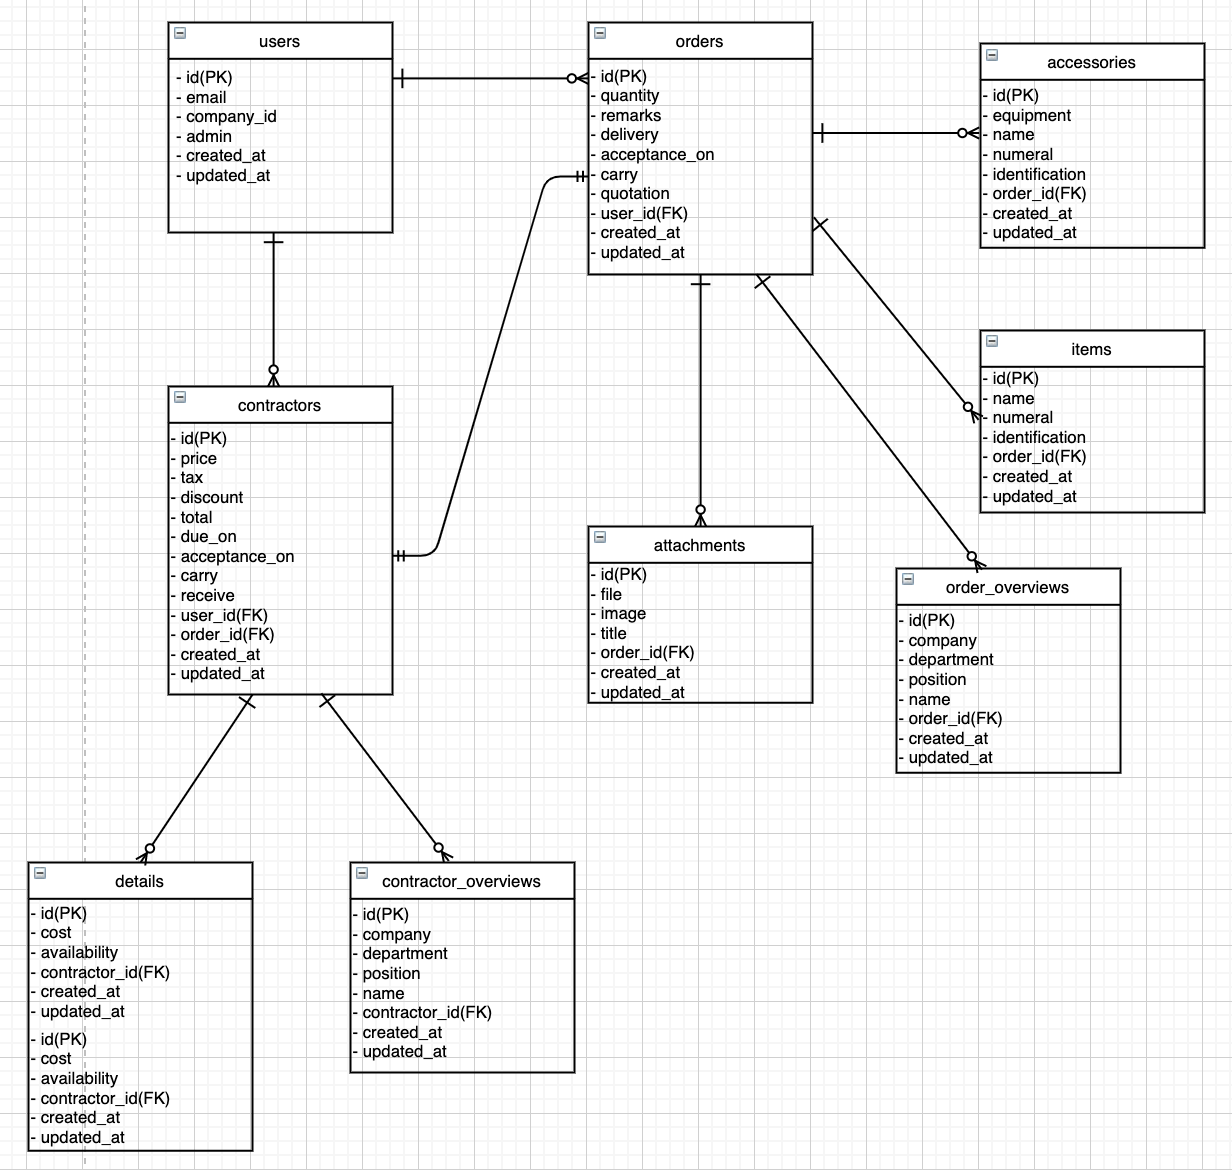
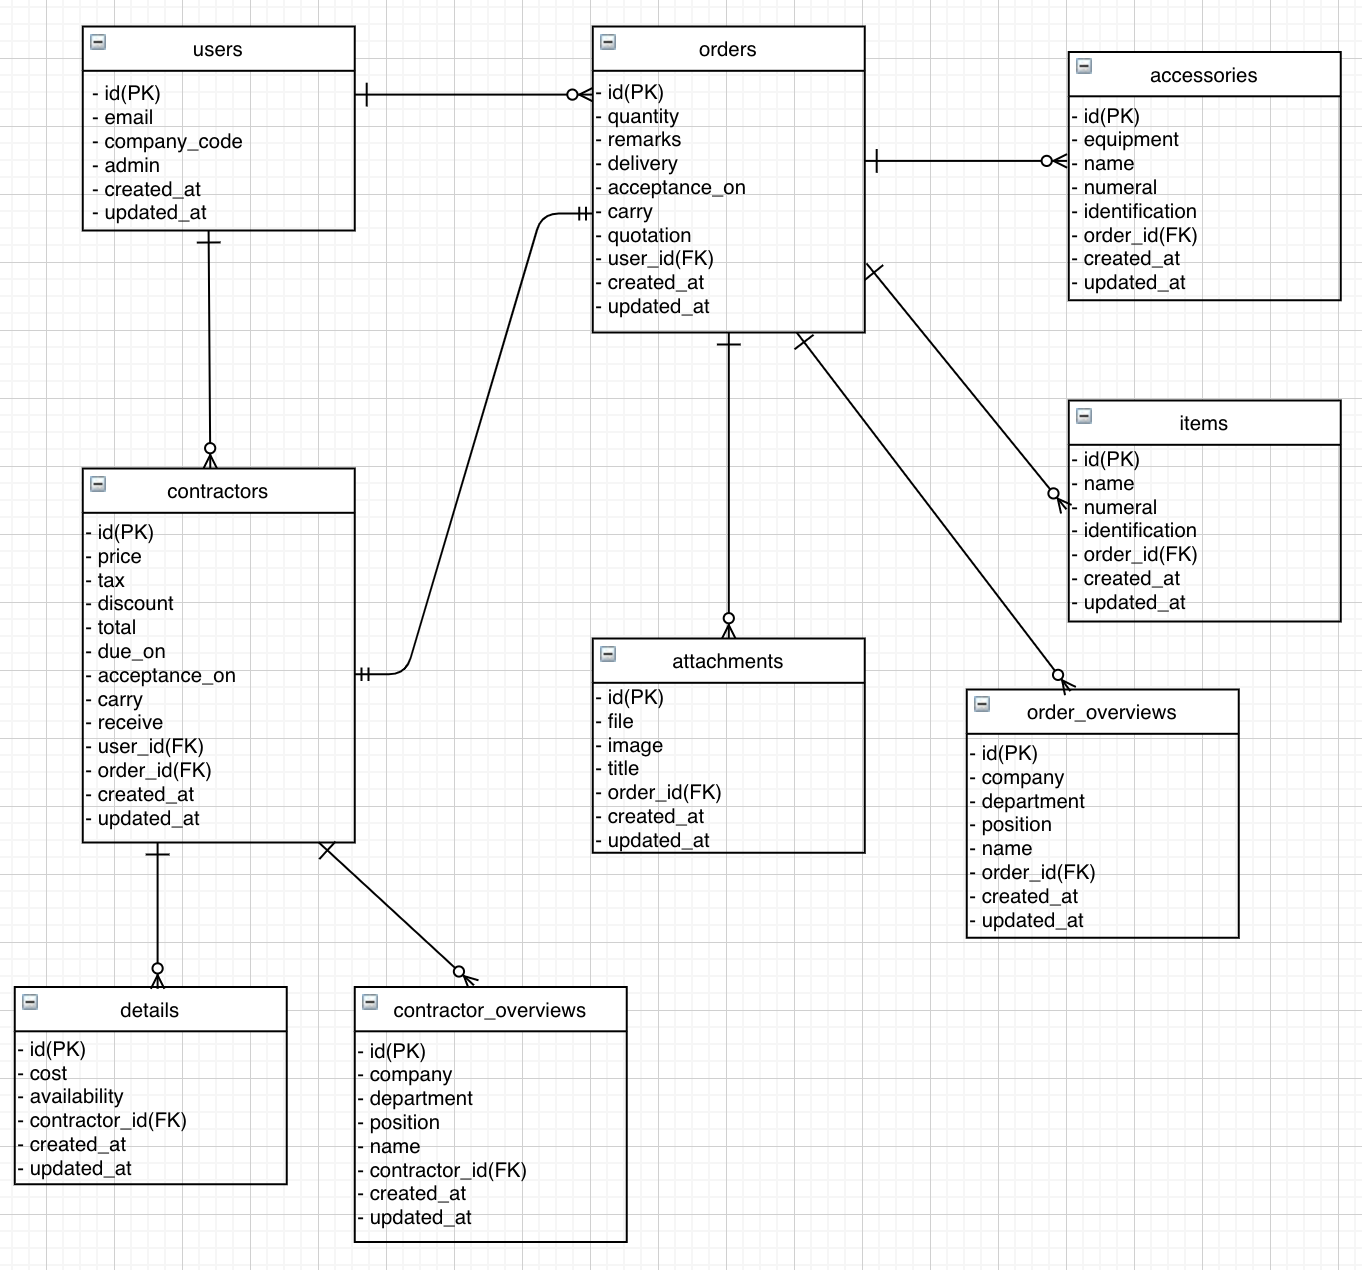
fixed ER diagram and content for README

diff --git a/README.md b/README.md
@@ -6,11 +6,12 @@ ___
 さらに発注会社側で、現場から提出された発注内容の編集及び承認、削除等ができ業務を効率化する。
 ___
 ## 開発背景
-以前、発注業務を担当した際に、現場が作成したExcelを提出してもらい、そこから見積りを
-取り、発注するといった流れであった。  
-受注する側と発注する側でのメールのやり取りが、何度もある事で時間のロス及びメールの見落としにも繋がっていると考えた。  
-また、相見積りを取った時に、提示された見積り内容を印刷し、手書きで修正していたので、  
-発注側の労力もさる事ながら、時代に逆行していると思えた。
+以前、発注業務を担当した際に、現場が作成したExcelを提出してもらい、そこから見積りを取り、  
+発注するといった流れであった。  
+受注する側と発注する側でのメールのやり取りが何度もある事で、時間のロス及びメールの見落としにも  
+繋がりかねないと考えていた。  
+また、相見積りを取った際には提示された見積り内容を印刷し見比べ、手書きで修正していた為、  
+この一連のやりとりには、効率性がなく、発注側の労力もさる事ながら時代に逆行していると思えた。
 ___
 ## 開発言語
 - Ruby2.6.5
@@ -24,7 +25,8 @@ ___
 - ransack
 ___
 ## 実行手順
-```% git clone git@github.com:Hiryo/prototype_app.git  
+```
+% git clone git@github.com:Hiryo/prototype_app.git  
 % cd prototype_app  
 % bundle install  
 % rails db:create db:migrate  
